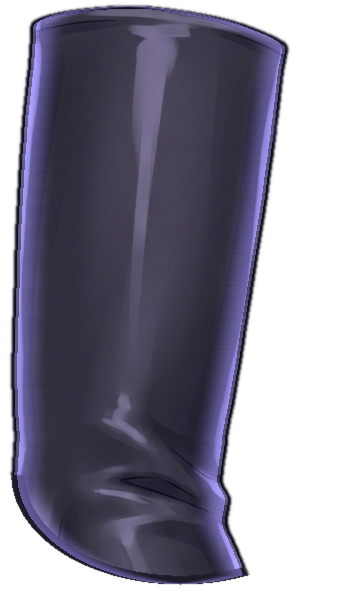
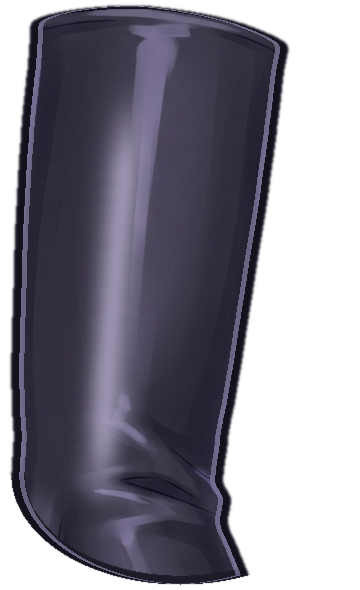
fix(kohako-studio): 比較版の袖の裾を持ち上げて上腕を見せ、輪郭線で分離する (BOXP-476)
袖の裾の外側だけを腕に追従させ、肘の位置と制止の前腕の角度を調整して、
袖の下縁より下に上腕が見える区間を作る。上腕の素材は明度を上げず、
既存の生成物へ輪郭線と光沢を加工して髪・裏地から分離する。
テストは袖の下縁から小手までの見える長さ(50px 以上・74px 以下)で判定する。

diff --git a/apps/kohako-studio/web/src/live2d/gesture.test.ts b/apps/kohako-studio/web/src/live2d/gesture.test.ts
@@ -1,10 +1,12 @@
 import { describe, expect, it } from 'vitest'
-import { browPin, clips, createActingStage, crossfadeArms, deformArm, deformFore, deformHand, deformSleeve, faces, foreScale, isForearm, sample, sleeveAngle, solveArm } from './gesture'
+import { browPin, type ArmPose, clips, createActingStage, crossfadeArms, deformArm, deformFore, deformHand, deformSleeve, faces, foreScale, isForearm, sample, sleeveAngle, solveArm } from './gesture'
 import type { Player } from './rig'
 import type { RigModel } from './model'
 import { emotions, gestures } from './acting'
 
 const bone = { S: [710, 533], E: [760, 733], W: [844, 928], band: 34, arm: 22, hand: 20, mirror: false } as const
+const HEM = [[771, 663], [841, 691]] as const // 紫の袖の下縁
+const CUFF_EDGE = [[729, 758.5], [745, 761.5], [760, 759.5], [769, 753], [773, 746], [777, 733], [781, 713], [784, 702], [787, 697.5]] as const // 小手の金の開口（FOREARM_POLY の上辺）
 const rest = { up: 0, upS: 1, fo: 0, foS: 1, ha: 0, haS: 1 }
 
 describe('生成素材の手と前腕の分離', () => {
@@ -105,18 +107,43 @@ describe('腕の変形', () => {
     // 肩から肘の長さは、袖に隠れる上端を含めて休止の 1.14 倍まで。袖の下に見えている区間は休止より長くしない。
     expect(Math.hypot(...toShoulder)).toBeLessThanOrEqual(Math.hypot(bone.E[0] - bone.S[0], bone.E[1] - bone.S[1]) * 1.14)
     expect(Math.hypot(elbow[0] - bone.E[0], elbow[1] - bone.E[1])).toBeGreaterThanOrEqual(60)
-    expect(elbow[1]).toBeLessThanOrEqual(bone.E[1]) // 腰より下へ下げない
+    expect(elbow[1]).toBeLessThanOrEqual(bone.E[1] + 5) // 腰より下へは大きく下げない（袖の下に上腕を見せる分だけ休止より少し下げてよい。BOXP-485）
   })
   it.each([['制止', 'halt', 1.5], ['挨拶', 'greet', 0.55], ['案内', 'guide', 1.5], ['喜び', 'joy', 0.75]] as const)('%s の保持は肘が袖の下縁より下に出て上腕が見える', (_name, gesture, time) => {
     const { elbow } = solveArm(bone, sample(clips[gesture], time).right)
     const hemY = 663 + (elbow[0] - 771) * (691 - 663) / (841 - 771)
     expect(elbow[1] - hemY).toBeGreaterThanOrEqual(20)
   })
+  // 袖の下縁から小手の開口まで、肩→肘の中心線が見える長さ。袖と小手を実際の変形で動かして測る（BOXP-485 の条件 1 と 3）。
+  const visibleUpper = (pose: ArmPose) => {
+    const m = pose, { elbow, wrist } = solveArm(bone, m), length = (v: readonly [number, number]) => Math.hypot(v[0], v[1])
+    const toCuff = [wrist[0] - elbow[0], wrist[1] - elbow[1]] as const, b = [elbow[0] + toCuff[0] / length(toCuff) * 30, elbow[1] + toCuff[1] / length(toCuff) * 30] as const
+    const angle = sleeveAngle(bone, m), hem = HEM.map(p => deformSleeve(bone, angle, p[0], p[1], p[0], p[1])), cuff = CUFF_EDGE.map(p => deformFore(bone, m, p[0], p[1]))
+    const hit = (line: readonly (readonly [number, number])[], pick: (a: number, b: number) => number) => {
+      let found = NaN
+      for (let i = 0; i + 1 < line.length; i++) {
+        const p = line[i] as readonly [number, number], q = line[i + 1] as readonly [number, number], dx = b[0] - bone.S[0], dy = b[1] - bone.S[1], ex = q[0] - p[0], ey = q[1] - p[1], d = dx * ey - dy * ex
+        if (Math.abs(d) < 1e-9) continue
+        const s = ((p[0] - bone.S[0]) * ey - (p[1] - bone.S[1]) * ex) / d, u = ((p[0] - bone.S[0]) * dy - (p[1] - bone.S[1]) * dx) / d
+        if (u < 0 || u > 1) continue
+        found = Number.isNaN(found) ? s : pick(found, s)
+      }
+      return found
+    }
+    const total = Math.hypot(b[0] - bone.S[0], b[1] - bone.S[1])
+    const end = hit(cuff, Math.min) // 開口の金の縁をかすめて届かないときは、上腕の下端までを見える区間とする
+    return (Math.min(Number.isNaN(end) ? 1 : end, 1) - hit(hem, Math.max)) * total
+  }
+  it.each([['制止', 'halt', 1.5], ['挨拶', 'greet', 0.55], ['案内', 'guide', 1.5], ['喜び', 'joy', 0.75]] as const)('%s の保持は袖の下縁から小手まで上腕が 50px 以上見え、休止より長くは見えない', (_name, gesture, time) => {
+    const visible = visibleUpper(sample(clips[gesture], time).right)
+    expect(visible).toBeGreaterThanOrEqual(50)
+    expect(visible).toBeLessThanOrEqual(74)
+  })
   it('制止の保持は体の外側で手を肩より高く上げる（胸の前へ折り畳まない）', () => {
     const { elbow, wrist } = solveArm(bone, sample(clips.halt, 1.5).right)
     expect(elbow[0]).toBeGreaterThan(bone.E[0])
     expect(wrist[0]).toBeGreaterThan(bone.W[0])
-    expect(wrist[1]).toBeLessThan(bone.S[1])
+    expect(wrist[1]).toBeLessThan(bone.S[1] + 50) // 掌は手首より約 170px 上まで届き、顔の高さへ出る
   })
   it('肘を外へ上げると袖が肩口を固定したまま持ち上がり、休止と内側への動作では動かない', () => {
     expect(sleeveAngle(bone, rest)).toBeCloseTo(0)

diff --git a/apps/kohako-studio/web/src/live2d/gesture.ts b/apps/kohako-studio/web/src/live2d/gesture.ts
@@ -34,8 +34,9 @@ const EYE_R: Vec = [631.5, 278]
 
 const CROSSFADE_SECONDS = 0.55
 const FORESHORTEN_AT = 2.1, FORESHORTEN_WIDTH = 0.75, FORESHORTEN_DEPTH = 0.5, FORESHORTEN_FADE = 0.5
-// 肘を外へ上げるとき、肩の広い袖（ケープ）はわずかに持ち上げるだけで垂らす（正本シートの上げた腕と同じ）。袖が上腕と同じだけ回ると上腕が袖の裏に隠れ続ける。肩口は動かさず、袖口ほど大きく回す。
+// 肘を外へ上げるとき、肩の広い袖（ケープ）は肩口を動かさず垂らす（正本シートの上げた腕と同じ）。ただし裾の外側は腕に合わせて持ち上げ、袖の下縁より下に上腕が見える区間を作る（BOXP-485。垂らしたままだと見える区間が約 23px しかなく筒に見えない）。
 const SLEEVE_FOLLOW = 0.25, SLEEVE_FROM = 15, SLEEVE_TO = 130
+const SLEEVE_HEM_LIFT = 2, SLEEVE_HEM_FROM = 20, SLEEVE_HEM_TO = 90 // 裾の外側での追加の回転（SLEEVE_FOLLOW に対する倍率）。腕の軸からの外向きの距離で効かせる
 const REST: ArmPose = { up: 0, upS: 1, fo: 0, foS: 1, ha: 0, haS: 1 }
 const NO_BODY: BodyPose = { headX: 0, headY: 0, headZ: 0, bodyX: 0, bodyZ: 0, lean: 0, eyeX: 0, eyeY: 0 }
 
@@ -48,12 +49,12 @@ export const faces: Record<Emotion, Face> = {
   serious: { browOuter: -3, browInner: 11, browY: 3, eyeSX: 1, eyeSY: 0.91, mouth: -0.35, mouthCorner: 12, mouthWidth: 0.92, head: { headY: -3 }, expression: null },
 }
 
-// 外へ上げる肘の位置。袖の下縁（(771,663)〜(841,691)）と裏地の下端より下へ出し、黒い上腕が茶色の裏地の手前を横切って見えるようにする（背景の黒髪の上では読み取れない）。これより水平に上げると上腕が袖の下縁の裏に隠れ、開口の下に裏地が小片で残る。
-const ELBOW_OUT: Vec = [826, 730]
+// 外へ上げる肘の位置。袖の裾を持ち上げた下に上腕が見える高さで、肩〜肘の総長は休止の 1.14 倍以内に収める。これより上げると小手の開口が袖の裾に重なって上腕が隠れる（BOXP-485）。
+const ELBOW_OUT: Vec = [828, 736]
 const wave = (t: number, fo: number): Key => ({ t, right: { up: 0, upS: 1, fo, foS: 1, ha: fo < -2 ? 0.35 : -0.3, haS: 1, elbowTo: ELBOW_OUT } })
 const GUIDE: ArmPose = { up: 0, upS: 1, fo: -1.92, foS: 1, ha: 0.15, haS: 1, elbowTo: ELBOW_OUT }
-// 制止: 肘を外へ上げ、体の外側（肩の外、正本シートの掌を見せる構図）で前腕を立てて掌を相手へ向ける。手首を胸の前へ運ぶと前腕が上腕に折り重なって関節が見えないため、体の前は通さない（BOXP-482）。
-const HALT: ArmPose = { up: 0, upS: 1, fo: -2.4, foS: 1, ha: 0.1, haS: 1.1, elbowTo: ELBOW_OUT, front: true, art: 'palm', artW: 1 }
+// 制止: 肘を外へ上げ、体の外側で前腕を斜めに立てて掌を相手へ向ける。前腕を真上まで立てると上腕に重なって上腕が隠れるため、内角を開いた角度で止める（BOXP-482/485）。
+const HALT: ArmPose = { up: 0, upS: 1, fo: -2.05, foS: 1, ha: 0.1, haS: 1.1, elbowTo: ELBOW_OUT, front: true, art: 'palm', artW: 1 }
 const HALT_RISE: ArmPose = { up: 0, upS: 1, fo: -1.1, foS: 1, ha: 0.2, haS: 1.05, elbowTo: [805, 725], front: true, art: 'palm', artW: 0 }
 // 照れ: 体の前を通って手を口元へ運ぶ（外へ大回りしない）。終端の向きは従来と同じ。
 const SHY: ArmPose = { up: 0, upS: 1, fo: 3.41, foS: 1.02, ha: 0.02, haS: 0.95, elbowTo: [635, 720], front: true, art: 'cover', artW: 1 }
@@ -130,8 +131,9 @@ export function sleeveAngle(bone: Pick<Bone, 'S' | 'E' | 'W' | 'mirror'>, pose: 
 }
 /** 肩の袖の頂点を、肩口を固定したまま袖口ほど大きく回す。 */
 export function deformSleeve(bone: Pick<Bone, 'S' | 'E' | 'mirror'>, angle: number, vx: number, vy: number, rx: number, ry: number): Vec {
-  const along = dot(sub([rx, ry], bone.S), norm(sub(bone.E, bone.S)))
-  return add(bone.S, rot(sub([vx, vy], bone.S), angle * smooth(SLEEVE_FROM, SLEEVE_TO, along)))
+  const axis = norm(sub(bone.E, bone.S)), offset = sub([rx, ry], bone.S), outward: Vec = bone.mirror ? [-axis[1], axis[0]] : [axis[1], -axis[0]]
+  const hem = 1 + SLEEVE_HEM_LIFT * smooth(SLEEVE_HEM_FROM, SLEEVE_HEM_TO, dot(offset, outward))
+  return add(bone.S, rot(sub([vx, vy], bone.S), angle * hem * smooth(SLEEVE_FROM, SLEEVE_TO, dot(offset, axis))))
 }
 
 /** 前腕の金の縁より手先の頂点か（上腕・肩の装甲・裏地は false）。 */
